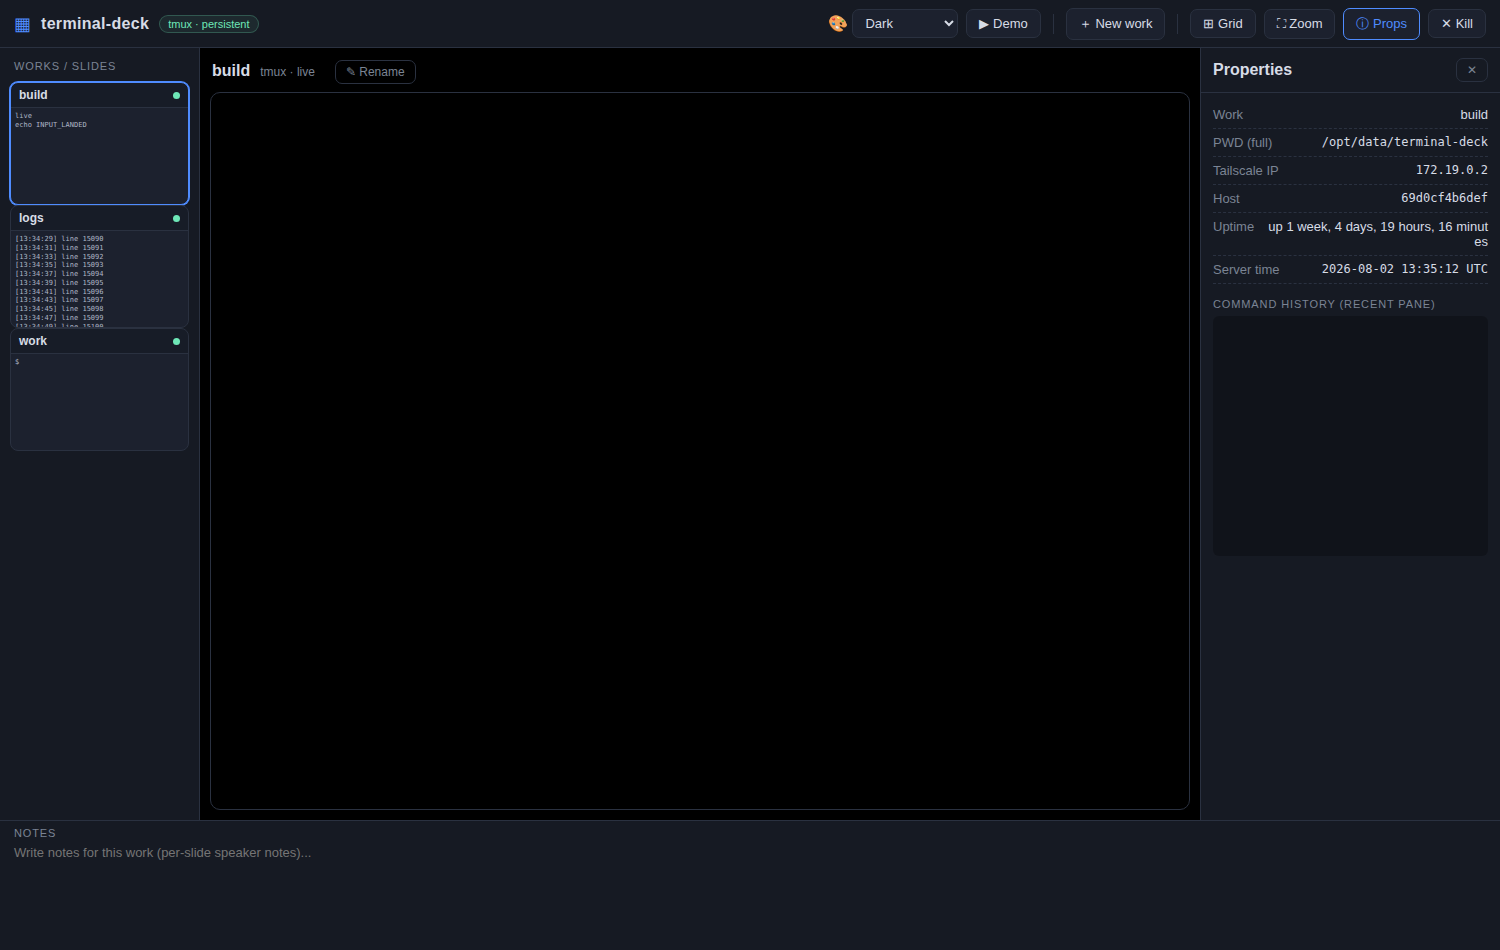
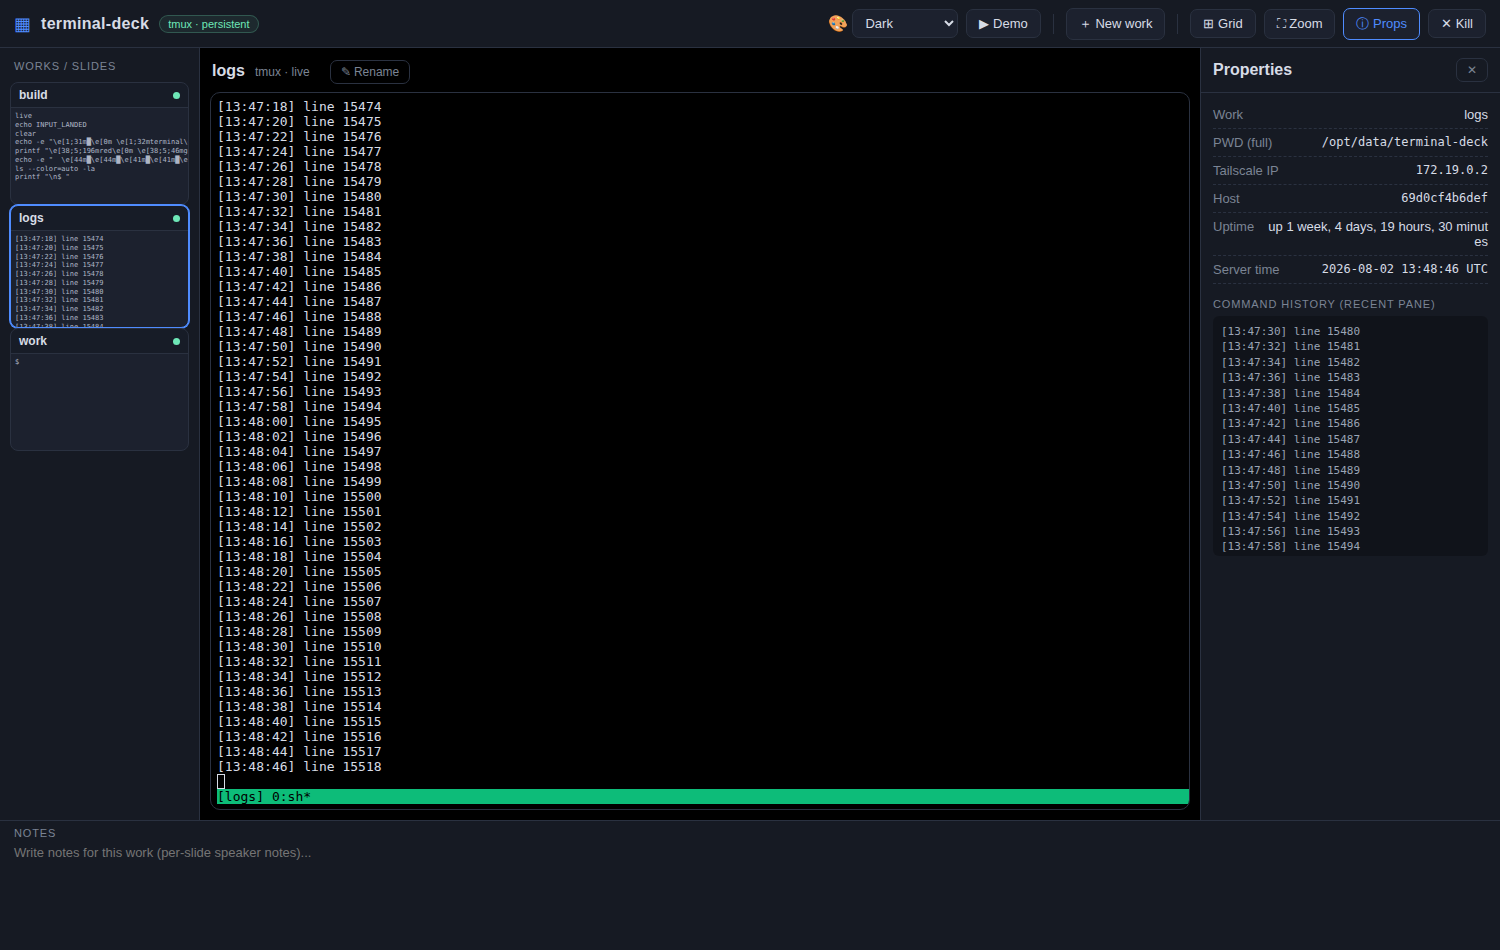
fix(ui): main terminal was blank after rename; add eye-guard/ocean/forest/violet/sepia themes
- Bug: ws data filter compared msg.token (main:<name>) against state.active
  (<name>), so the main xterm never received streamed output after the token
  scheme changed. Now compares against state.tokens[active]; main streams live.
- Add 5 new themes (Eye Guard, Ocean, Forest, Violet, Sepia) to the 🎨 picker.
- dev/ui-test.mjs: add main-stream regression check + theme checks; rename-back
  so the harness is idempotent on re-runs; add 08-main-live screenshot.

diff --git a/public/app.js b/public/app.js
@@ -67,6 +67,31 @@ const THEMES = {
               blue:'#7aa2f7', magenta:'#bb9af7', cyan:'#7dcfff', white:'#a9b1d6',
               brightBlack:'#414868', brightRed:'#f7768e', brightGreen:'#9ece6a', brightYellow:'#e0af68',
               brightBlue:'#7aa2f7', brightMagenta:'#bb9af7', brightCyan:'#7dcfff', brightWhite:'#c0caf5' },
+  eyeGuard: { background: '#002b36', foreground: '#839496', cursor: '#93a1a1', selection: '#073642',
+              black:'#073642', red:'#dc322f', green:'#859900', yellow:'#b58900',
+              blue:'#268bd2', magenta:'#d33682', cyan:'#2aa198', white:'#eee8d5',
+              brightBlack:'#586e75', brightRed:'#dc322f', brightGreen:'#859900', brightYellow:'#b58900',
+              brightBlue:'#268bd2', brightMagenta:'#d33682', brightCyan:'#2aa198', brightWhite:'#fdf6e3' },
+  ocean:    { background: '#0b2b40', foreground: '#d7e9f7', cursor: '#7fd4ff', selection: '#1e4a63',
+              black:'#0b2b40', red:'#ff5f87', green:'#5fd7a7', yellow:'#ffd787',
+              blue:'#5fafff', magenta:'#af87ff', cyan:'#62d6ff', white:'#d7e9f7',
+              brightBlack:'#4a6b80', brightRed:'#ff8faf', brightGreen:'#8ff7cf', brightYellow:'#ffe7af',
+              brightBlue:'#8fc7ff', brightMagenta:'#cfafff', brightCyan:'#a2e7ff', brightWhite:'#eaf7ff' },
+  forest:   { background: '#0f1f0f', foreground: '#cfe8c0', cursor: '#b8e08a', selection: '#1e3a1e',
+              black:'#0f1f0f', red:'#d05555', green:'#8fd26f', yellow:'#d8c060',
+              blue:'#6fa0c0', magenta:'#b080c0', cyan:'#65c0a0', white:'#cfe8c0',
+              brightBlack:'#4a6a4a', brightRed:'#e07070', brightGreen:'#a0e080', brightYellow:'#e8d070',
+              brightBlue:'#80b8e0', brightMagenta:'#c090d0', brightCyan:'#78d0b0', brightWhite:'#e8ffe0' },
+  violet:   { background: '#1c162a', foreground: '#ddd0f0', cursor: '#c8a8f0', selection: '#3a2a52',
+              black:'#241c38', red:'#f06878', green:'#a8e068', yellow:'#f0d068',
+              blue:'#8fa0f0', magenta:'#d088f0', cyan:'#7fd0e0', white:'#ddd0f0',
+              brightBlack:'#5a4a76', brightRed:'#f88a98', brightGreen:'#c0e888', brightYellow:'#f8e088',
+              brightBlue:'#aab0f8', brightMagenta:'#e0a0f8', brightCyan:'#98e0f0', brightWhite:'#f0e8ff' },
+  sepia:    { background: '#f5f0e6', foreground: '#3b342c', cursor: '#6b5a45', selection: '#d8cbb0',
+              black:'#3b342c', red:'#a05030', green:'#5a7a40', yellow:'#9a7a20',
+              blue:'#406080', magenta:'#7a5070', cyan:'#3a7060', white:'#d6cdbd',
+              brightBlack:'#8a7f6f', brightRed:'#b06040', brightGreen:'#6a8a50', brightYellow:'#aa8a30',
+              brightBlue:'#507090', brightMagenta:'#8a6080', brightCyan:'#4a8070', brightWhite:'#f0eadd' },
 };
 
 // ---------- xterm (main stage) ----------
@@ -111,11 +136,12 @@ function connect() {
   ws.onclose = () => setTimeout(connect, 1500);
   ws.onmessage = (ev) => {
     let msg; try { msg = JSON.parse(ev.data); } catch { return; }
-    if (msg.t === 'data' && msg.token === state.active) {
+    const activeTok = state.active ? state.tokens[state.active] : null;
+    if (msg.t === 'data' && activeTok && msg.token === activeTok) {
       if (term) term.write(msg.data);
     } else if (msg.t === 'bye') {
       // session ended
-      if (msg.token === state.active) setActive(null);
+      if (state.active && msg.token === state.tokens[state.active]) setActive(null);
     } else if (msg.t === 'snap') {
       const card = cardsEl.get(msg.session);
       if (card) card.preview.textContent = sanitizeSnap(msg.data).slice(0, cardPreviewChars(card));

diff --git a/public/index.html b/public/index.html
@@ -25,6 +25,11 @@
         <option value="gruvbox">Gruvbox</option>
         <option value="nord">Nord</option>
         <option value="tokyonight">Tokyo Night</option>
+        <option value="eyeGuard">Eye Guard</option>
+        <option value="ocean">Ocean</option>
+        <option value="forest">Forest</option>
+        <option value="violet">Violet</option>
+        <option value="sepia">Sepia</option>
       </select>
     </label>
     <button id="btn-demo" title="Send a colorful demo command to the focused work">▶ Demo</button>
